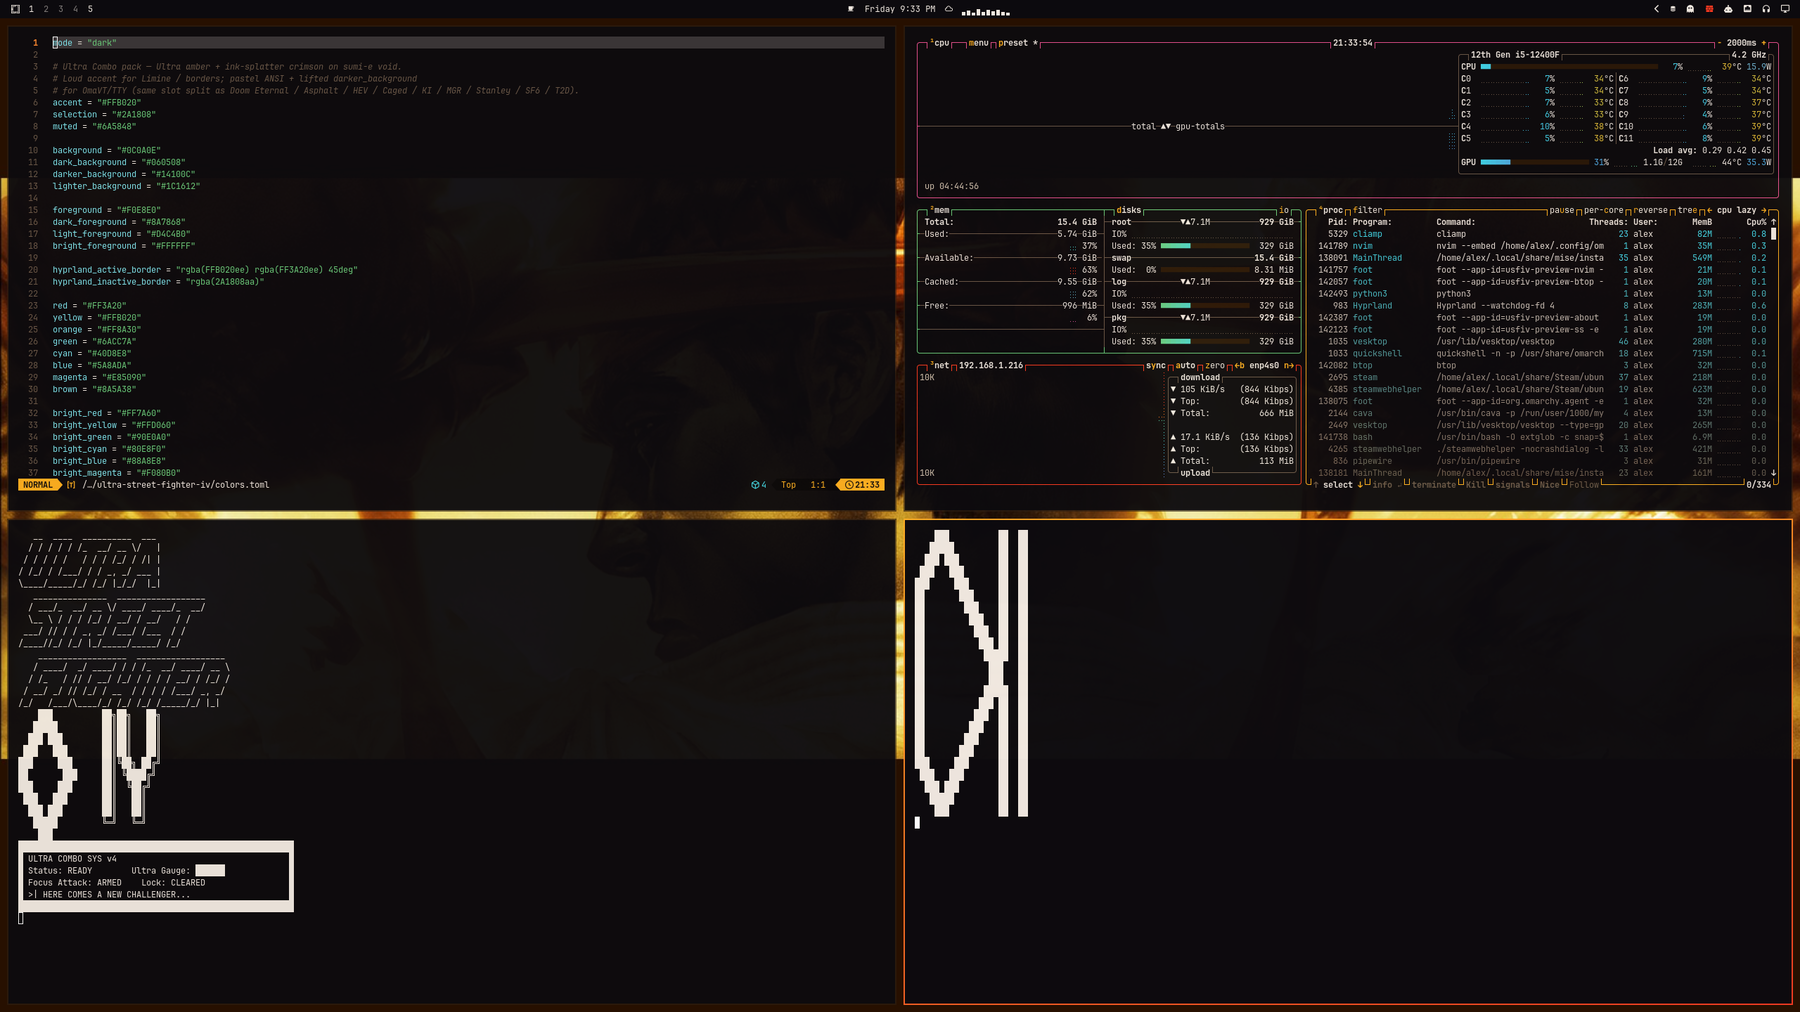
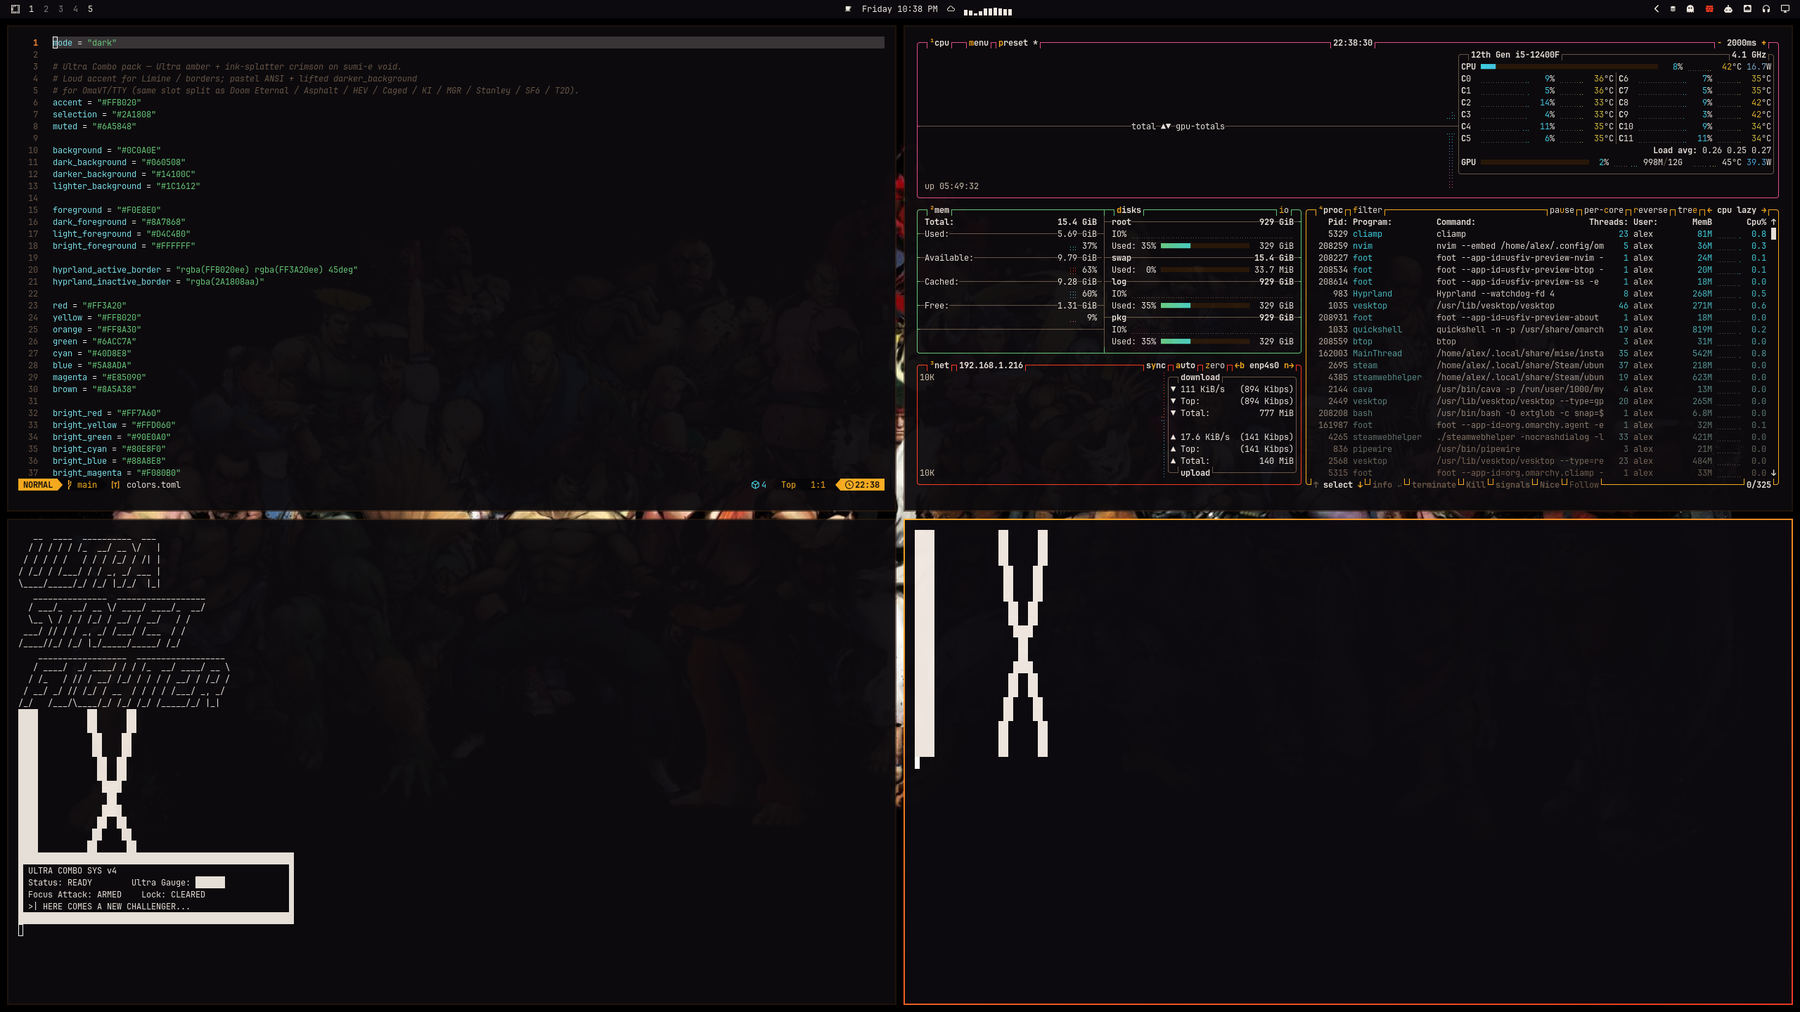
Cleaner block IV on About and screensaver — drop the ambiguous spike.

diff --git a/README.md b/README.md
@@ -107,8 +107,8 @@ color and boxing, so don’t expect magic from the PNGs — the hand text is the
 good path.
 
 Screensaver / logo ASCII is a dense **ULTRA STREET FIGHTER IV** wordmark plus an
-Ultra Combo status panel (no empty lines). About / icon is a spiked **IV**
-monogram (same silhouette DNA as the stencil logo, no empty lines).
+Ultra Combo status panel (no empty lines). About / icon is a clean block **IV**
+monogram (tall I + sharp V, no empty lines).
 
 ### Unlock
 
